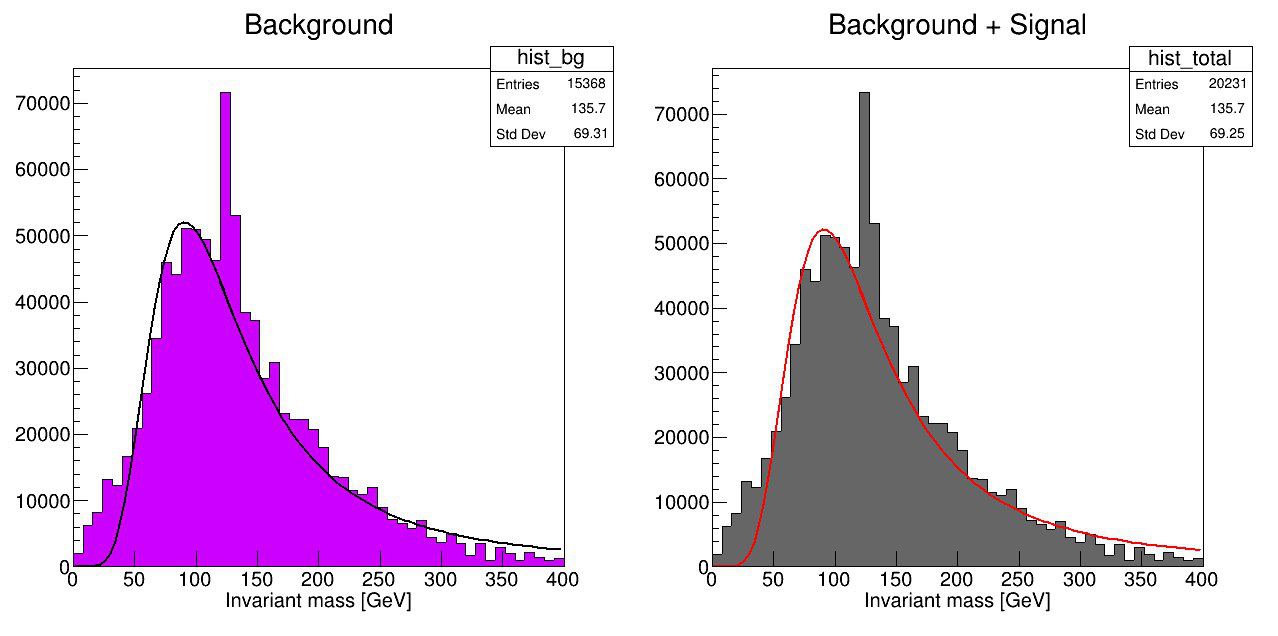
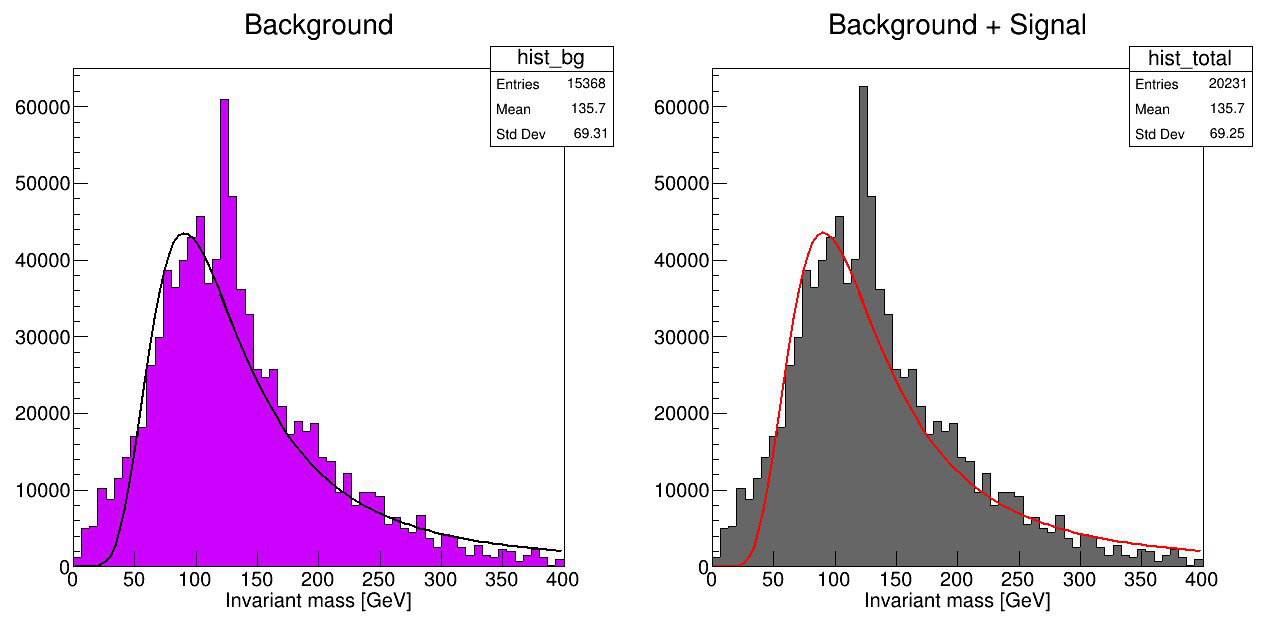
Finalized

diff --git a/Invariant_mass.py b/Invariant_mass.py
@@ -179,9 +179,7 @@ def makePlots(channel1, channel2, channel3):
     canvas.Update()
     
     # Save the canvas as a PDF file
-    canvas.SaveAs('Plots/Invariant_mass.pdf')
-    canvas.SaveAs('Plots/Invariant_mass.png')
-    canvas.SaveAs('Plots/Invariant_mass.root')
+    canvas.SaveAs('Plots/SignalComparison.png')
 
     # Close the ROOT files
     signal.Close()

diff --git a/README.md b/README.md
@@ -58,6 +58,8 @@ Plots are saved to the `/Plots/` subdirectory.
 
 ![Signal comparison](https://github.com/astadnitski/ProjectPAP331/blob/main/Plots/SignalComparison.png?raw=true)
 
+In the above histograms, a small difference can be seen, as the peak at 125 GeV is slightly taller in the combined signal-and-background plot.
+
 Due to the limited phase space, the Landau fit is suitable for our needs. However, real data exhibits a more complex nature, necessitating the use of multiple background and signal fitting functions.
 
 ## Part 3: Project assessment
